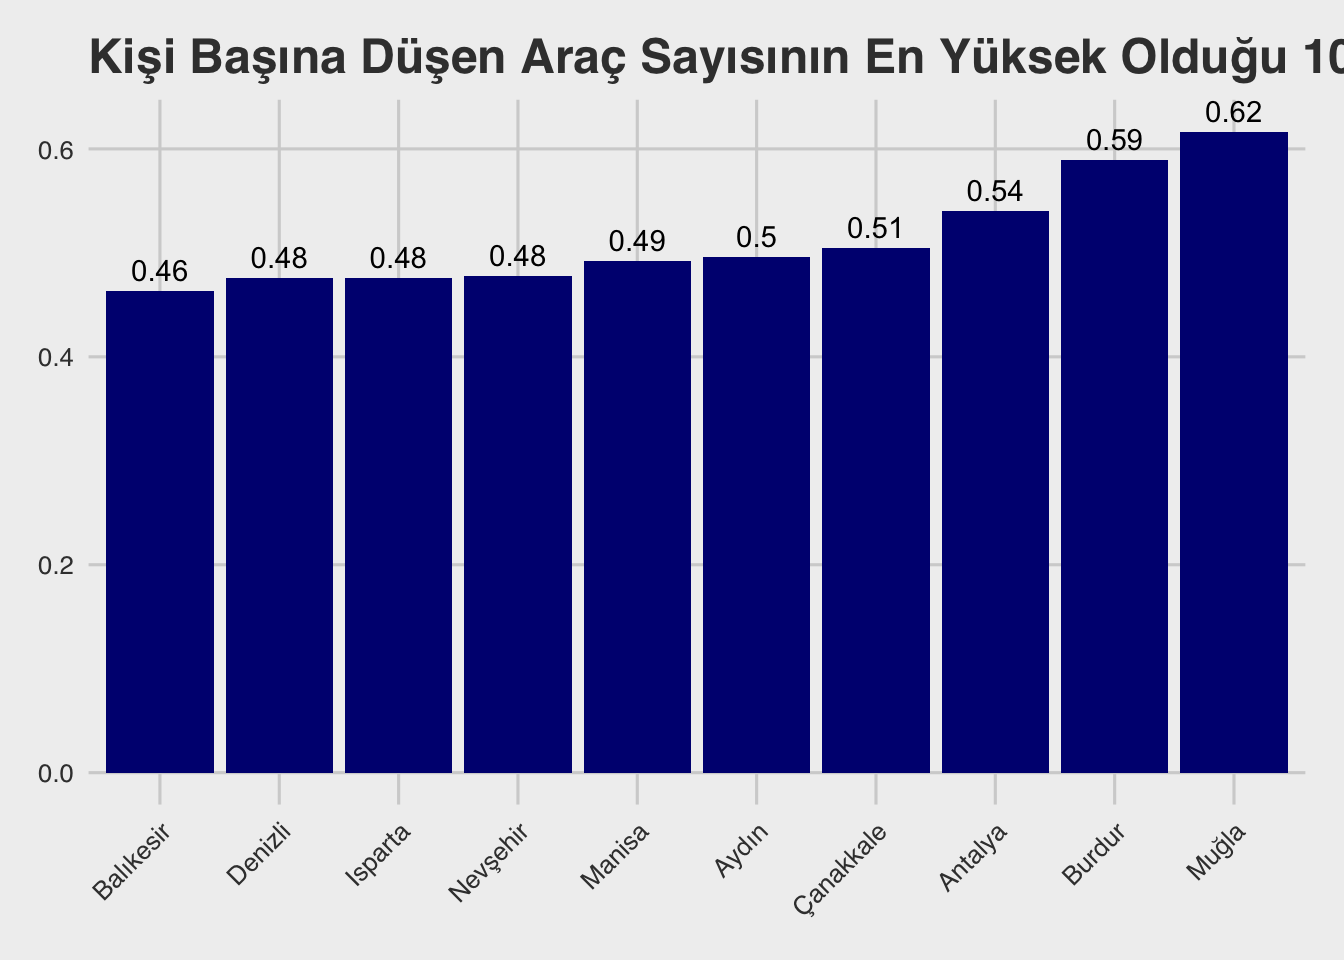
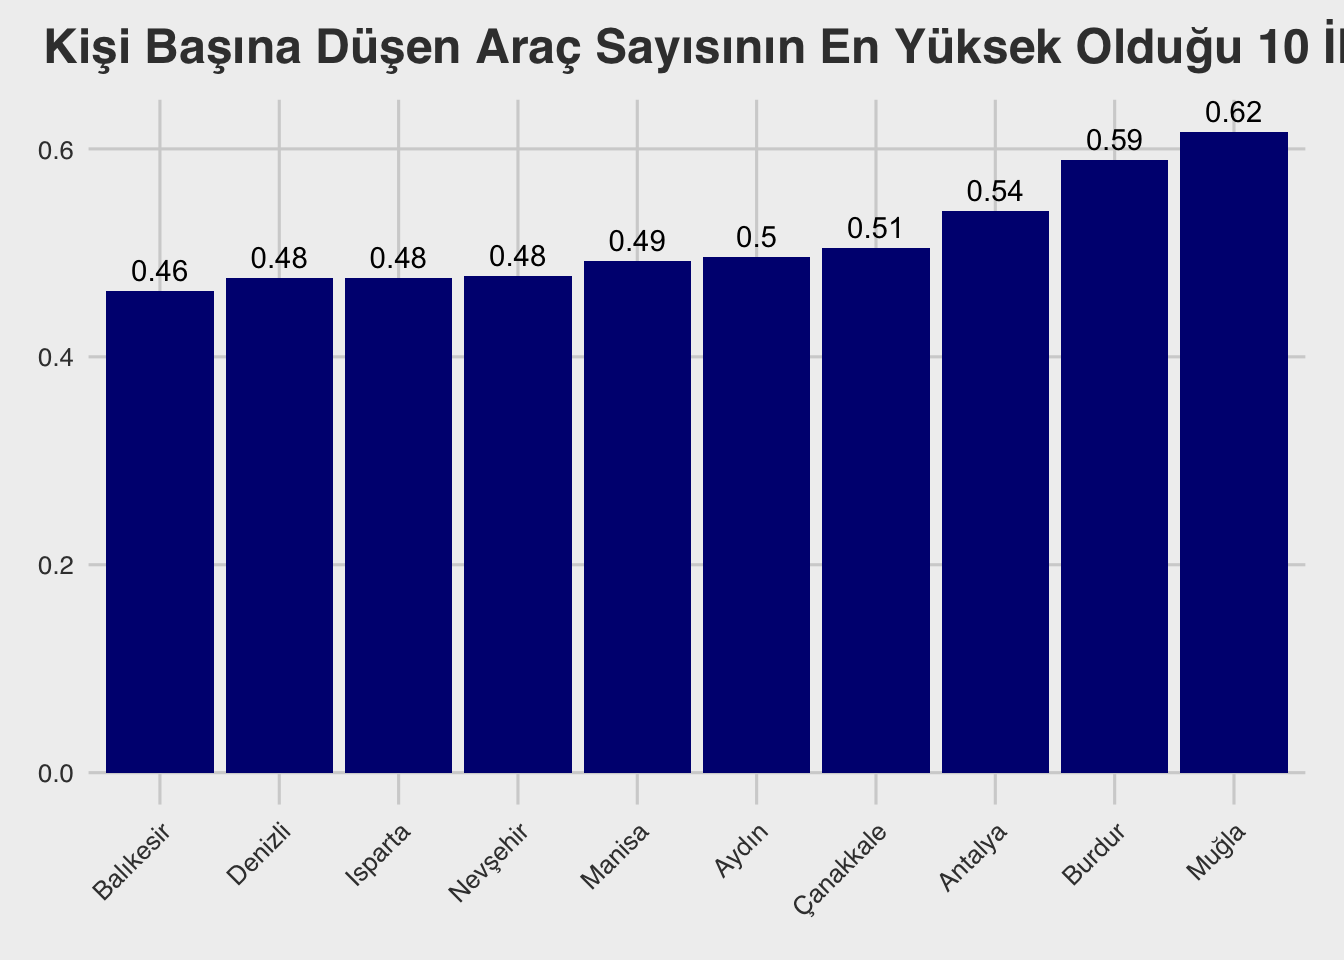
güncelleme

Changed region(s): [[0.0312, 0.0312, 1.0, 0.0938]]

diff --git a/docs/proje.html b/docs/proje.html
@@ -527,7 +527,8 @@ pre > code.sourceCode > span > a:first-child::before { text-decoration: underlin
 <span id="cb11-19"><a href="#cb11-19" aria-hidden="true" tabindex="-1"></a>       <span class="at">x =</span> <span class="cn">NULL</span>,</span>
 <span id="cb11-20"><a href="#cb11-20" aria-hidden="true" tabindex="-1"></a>       <span class="at">y =</span> <span class="st">"Kişi Başına Düşen Araç Sayısı"</span>) <span class="sc">+</span></span>
 <span id="cb11-21"><a href="#cb11-21" aria-hidden="true" tabindex="-1"></a>  <span class="fu">theme_fivethirtyeight</span>() <span class="sc">+</span></span>
-<span id="cb11-22"><a href="#cb11-22" aria-hidden="true" tabindex="-1"></a>  <span class="fu">theme</span>(<span class="at">axis.text.x =</span> <span class="fu">element_text</span>(<span class="at">angle =</span> <span class="dv">45</span>, <span class="at">hjust =</span> <span class="dv">1</span>))</span></code><button title="Copy to Clipboard" class="code-copy-button"><i class="bi"></i></button></pre></div>
+<span id="cb11-22"><a href="#cb11-22" aria-hidden="true" tabindex="-1"></a>  <span class="fu">theme</span>(<span class="at">axis.text.x =</span> <span class="fu">element_text</span>(<span class="at">angle =</span> <span class="dv">45</span>, <span class="at">hjust =</span> <span class="dv">1</span>),</span>
+<span id="cb11-23"><a href="#cb11-23" aria-hidden="true" tabindex="-1"></a>        <span class="at">plot.title =</span> <span class="fu">element_text</span>(<span class="at">hjust =</span> <span class="fl">0.5</span>, <span class="at">vjust =</span> <span class="dv">2</span>))</span></code><button title="Copy to Clipboard" class="code-copy-button"><i class="bi"></i></button></pre></div>
 <div class="cell-output-display">
 <p><img src="proje_files/figure-html/unnamed-chunk-3-1.png" class="img-fluid" width="672"></p>
 </div>
